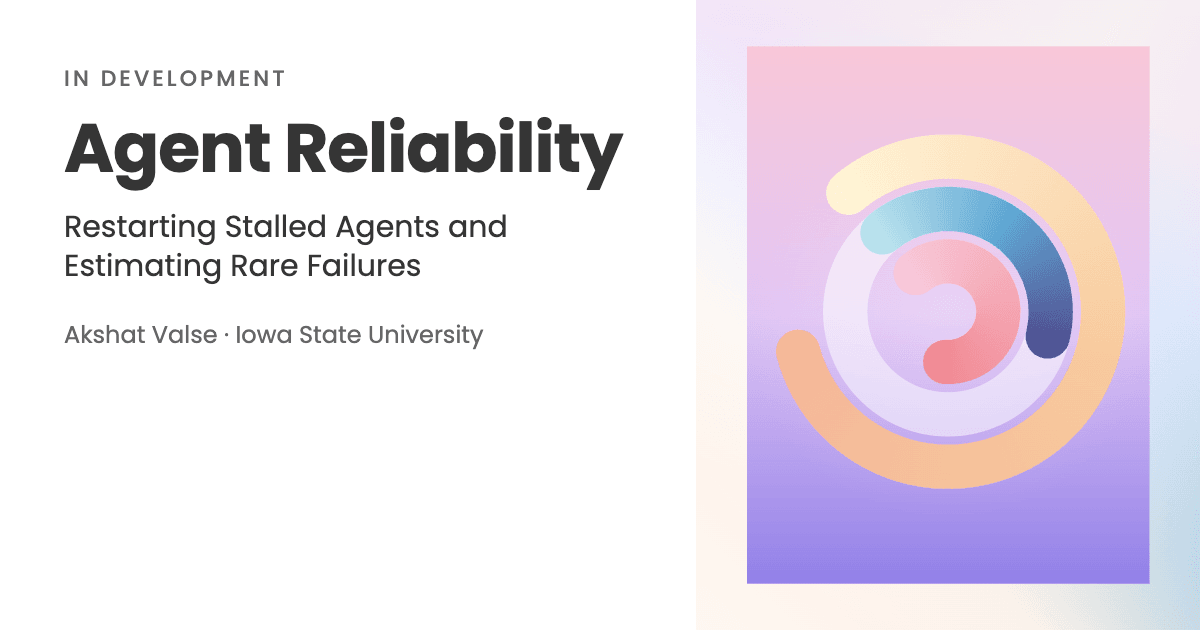
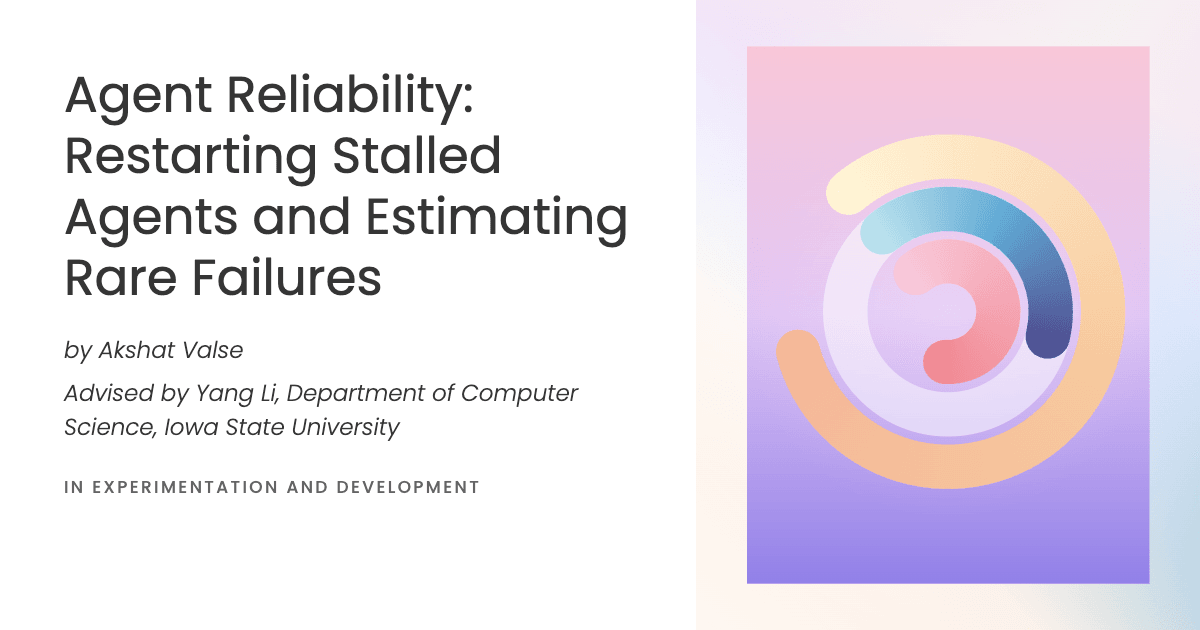
Social cards: set type like the site's title pages (regular-weight Poppins, italic authors), no bold

diff --git a/README.md b/README.md
@@ -202,15 +202,18 @@ logging stops and pages keep loading.
 ## Search and social
 
 The link-preview cards are `public/og/<slug>.png` (one per research project, set
-like that project's tile on the Research page: stage label, title and subtitle on
-white, the cover artwork inset in its themed frame) and `public/og/site.png`
-(every other page: name, tagline and portrait). `ProjectLayout` passes the
-project's card to `Base`, which defaults to `site.png`. They are rendered by
+like that project's title page: the title in regular-weight Poppins, the authors
+and affiliation in italics and the venue or stage in small capitals on white,
+with the cover artwork inset in its themed frame) and `public/og/site.png` (every
+other page: name, tagline and portrait). `ProjectLayout` passes the project's card
+to `Base`, which defaults to `site.png`. They are rendered by
 `node scripts/gen-og.mjs` using headless Chrome and Poppins from Google Fonts
 (it needs a network connection and refuses to write a card in a fallback font),
 from the same data as the site (`src/data/projects.ts`, `themes.ts`, the
-cover-art SVGs, the portrait), then committed, so a Linux build box never has to
-reproduce them. Re-run it after changing a project's title, subtitle, stage,
+cover-art SVGs, the portrait, and each project page's `authors`, `affiliation`
+and `info` props), then committed, so a Linux build box never has to reproduce
+them. The site sets its titles in regular weight, so the cards never use bold.
+Re-run it after changing a project's title, subtitle, stage,
 theme or artwork, the tagline or the portrait, and commit the PNGs. Social sites
 cache cards by URL for days: to refresh a card for already-shared links, rename
 the file (and the path in the layout), or re-scrape it in LinkedIn's Post
